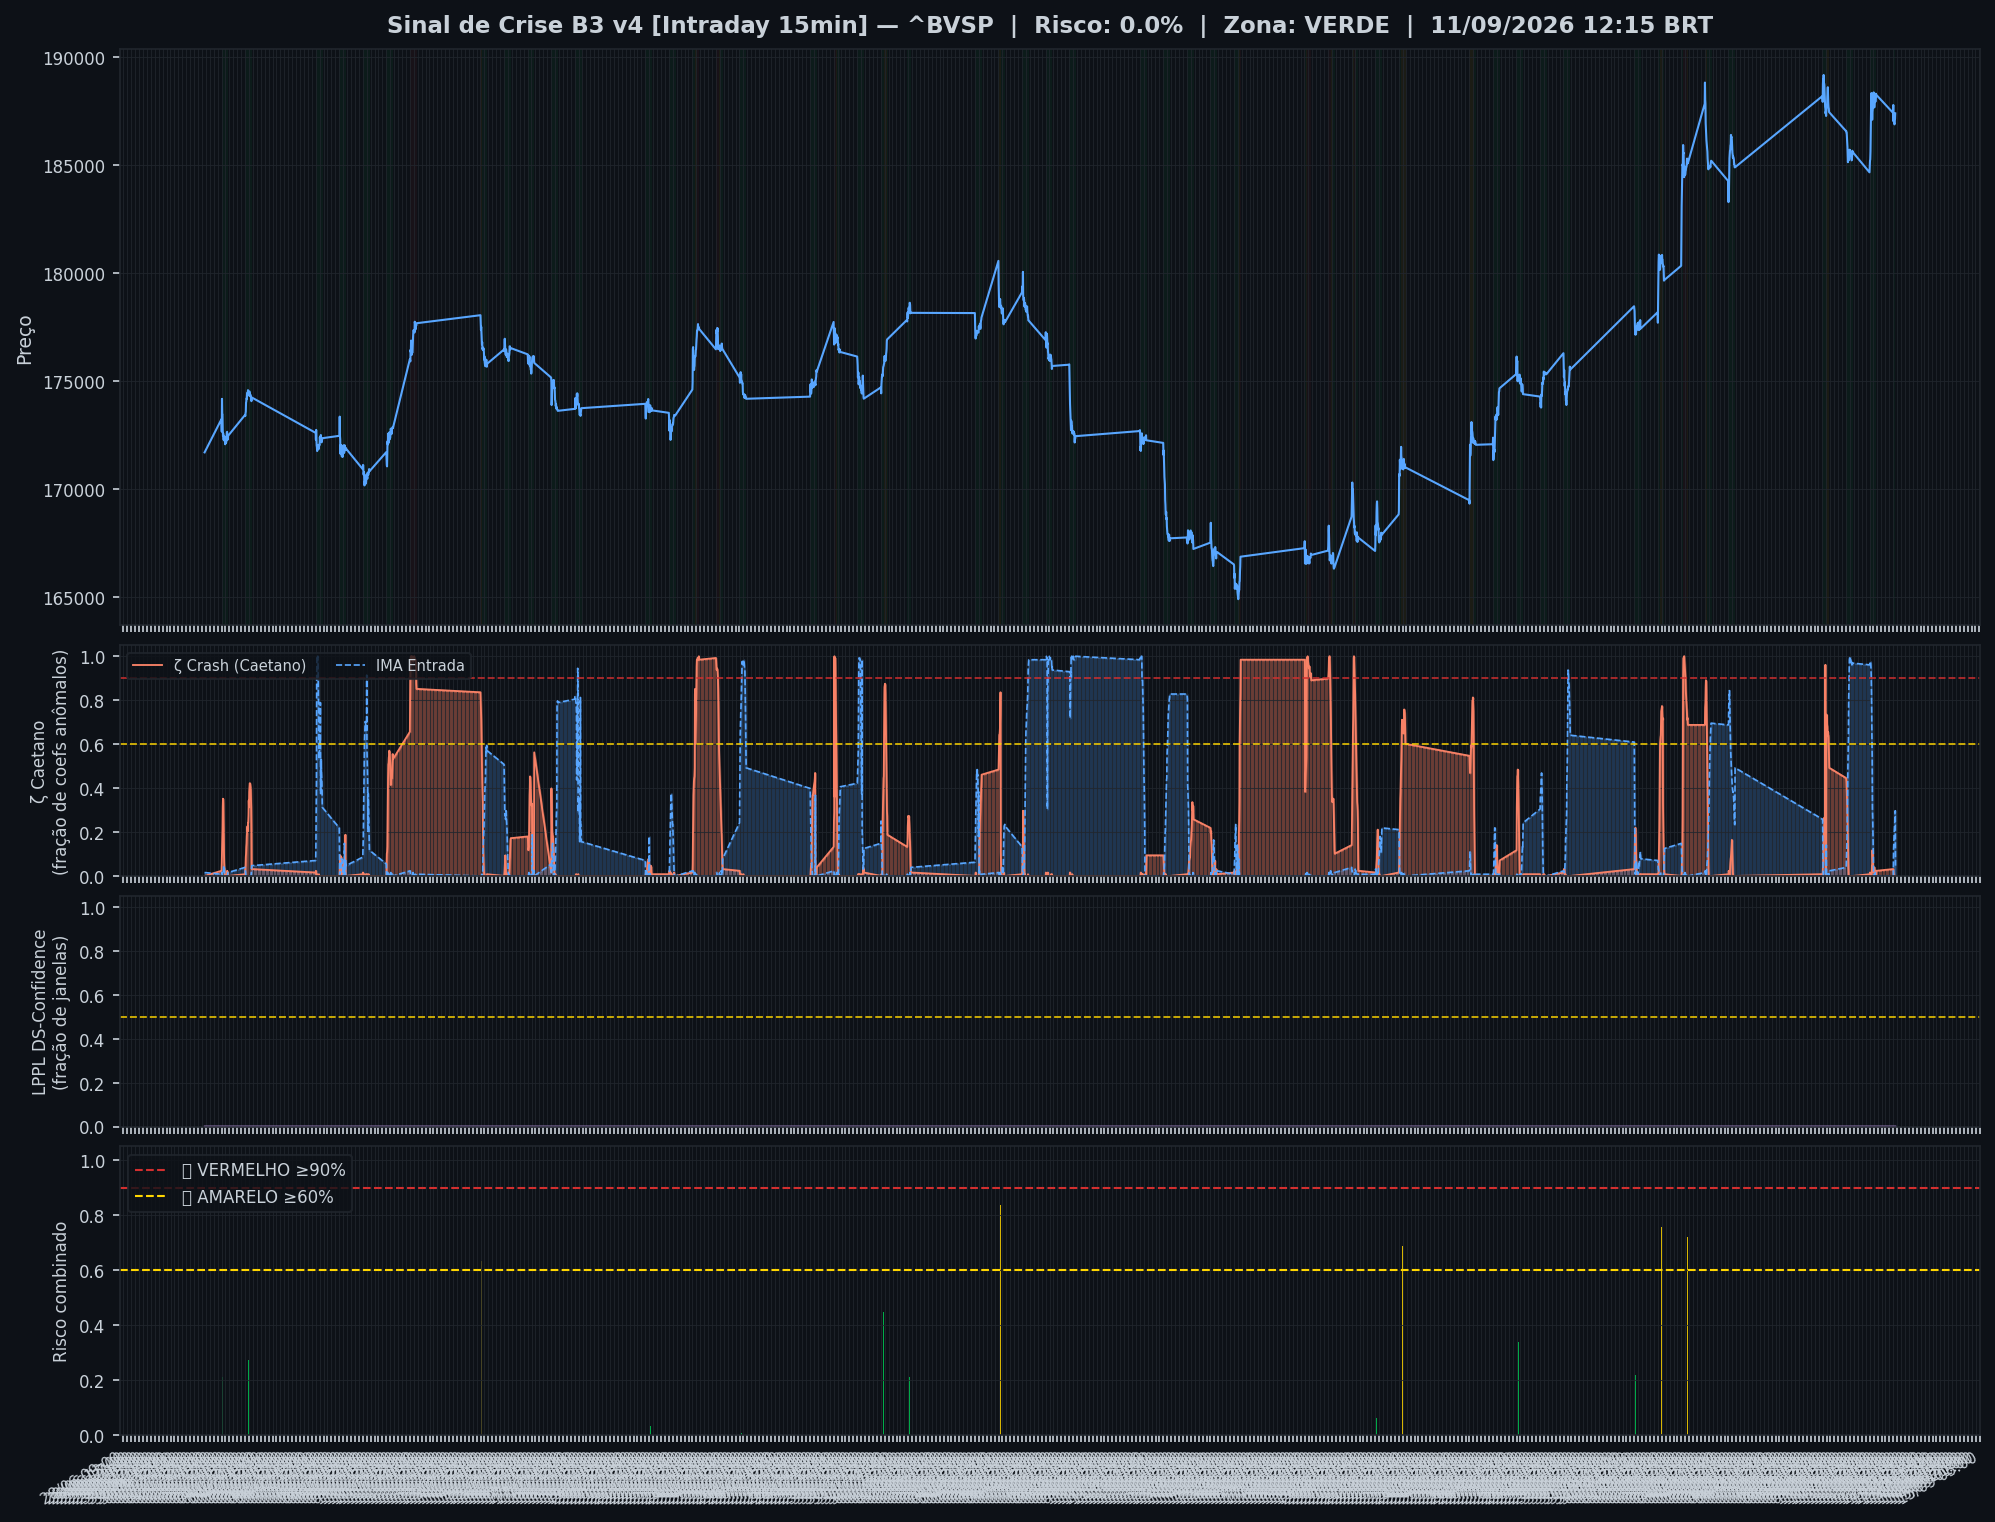
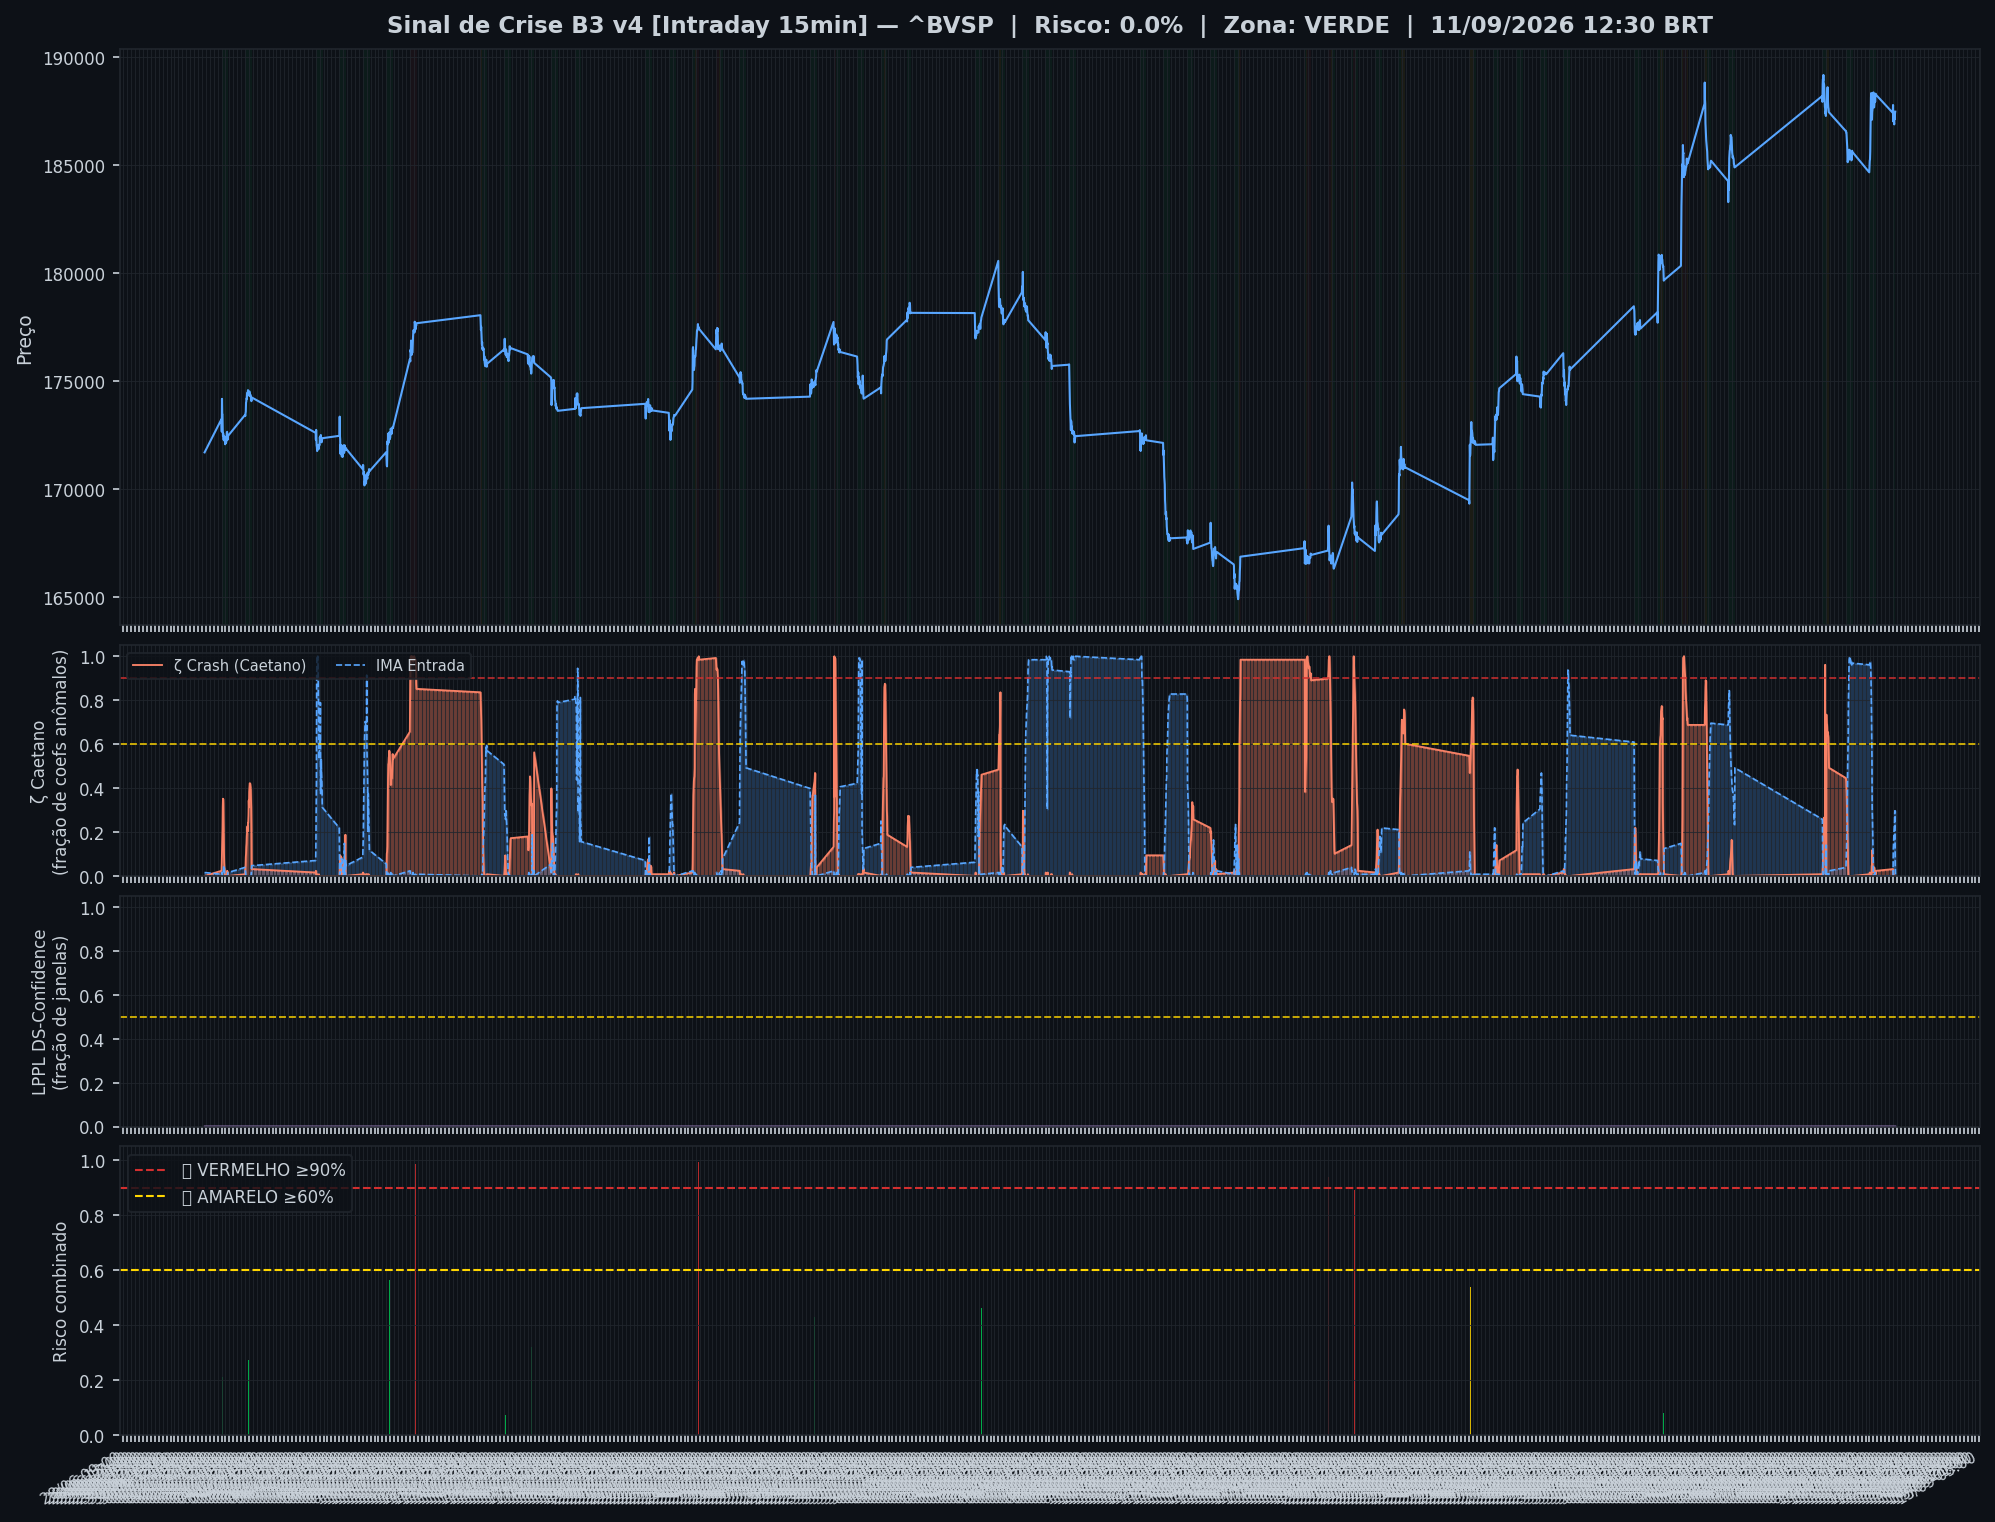
🤖 Auto: Sinal 11/09/2026 13:15

diff --git a/content/intraday/2026-09-11.md b/content/intraday/2026-09-11.md
@@ -1,5 +1,5 @@
 ---
-title: "🟢 Intraday 11/09/2026 12:15 BRT — VERDE"
+title: "🟢 Intraday 11/09/2026 12:30 BRT — VERDE"
 date: 2026-09-11
 tags: [intraday]
 ---
@@ -12,9 +12,9 @@ tags: [intraday]
 | Indicador | Valor |
 |---|---|
 | 🔴 ζ Crash — severidade da queda em curso | **0%** |
-| 🔵 ζ Entrada — estrutura de fundo | 5% |
+| 🔵 ζ Entrada — estrutura de fundo | 1% |
 | 🫧 LPPL DS-Confidence | 0% |
-| 📊 Ibovespa | 187.389 pts |
+| 📊 Ibovespa | 187.473 pts |
 
 ![Gráfico do sinal](../graficos/sinal_intraday.png)
 
@@ -22,6 +22,7 @@ tags: [intraday]
 
 | Data | Zona | Risco | IMA Crash | Entrada | LPPL |
 |---|---|---|---|---|---|
+| 2026-09-11 12:30 | 🟢 VERDE | **0%** | 0% | 1% | 0% |
 | 2026-09-11 12:15 | 🟢 VERDE | **0%** | 0% | 5% | 0% |
 | 2026-09-11 12:00 | 🟢 VERDE | **0%** | 0% | 30% | 0% |
 | 2026-09-11 11:45 | 🟢 VERDE | **0%** | 0% | 29% | 0% |
@@ -51,7 +52,6 @@ tags: [intraday]
 | 2026-09-10 12:45 | 🟢 VERDE | **12%** | 12% | 30% | 0% |
 | 2026-09-10 12:30 | 🟢 VERDE | **5%** | 5% | 55% | 0% |
 | 2026-09-10 12:15 | 🟢 VERDE | **5%** | 5% | 62% | 0% |
-| 2026-09-10 12:00 | 🟢 VERDE | **2%** | 2% | 70% | 0% |
 
 ## Monitor Multi-Ativo
 
@@ -60,34 +60,34 @@ tags: [intraday]
 | Zona | Ativo | Setor | IMA Crash | IMA Entrada |
 |---|---|---|---|---|
 | 🟢 | **VALE** | Mineração | 8.6% | 0.0% |
-| 🟢 | **ITAUUNIBANCO** | Financeiro | 8.6% | 0.0% |
-| 🟢 | **PETROBRAS** | Petróleo | 8.6% | 0.0% |
-| 🟢 | **PETROBRAS** | Petróleo | 8.6% | 0.0% |
-| 🟢 | **AXIA ENERGIA** | Energia | 8.6% | 0.0% |
-| 🟢 | **SABESP** | Saneamento | 8.6% | 0.0% |
-| 🟢 | **BRADESCO** | Financeiro | 8.6% | 0.0% |
-| 🟢 | **B3** | Financeiro | 8.6% | 0.0% |
-| 🟢 | **ITAUSA** | Financeiro | 8.6% | 0.0% |
-| 🟢 | **WEG** | Industrial | 8.6% | 0.0% |
-| 🟢 | **BTGP BANCO** | Financeiro | 8.6% | 0.0% |
-| 🟢 | **EMBRAER** | Outros | 8.6% | 0.0% |
-| 🟢 | **BRASIL** | Financeiro | 8.6% | 0.0% |
-| 🟢 | **AMBEV S/A** | Consumo | 8.6% | 0.0% |
-| 🟢 | **ENEVA** | Energia | 8.6% | 0.0% |
-| 🟢 | **EQUATORIAL** | Energia | 8.6% | 0.0% |
-| 🟢 | **PRIO** | Petróleo | 8.6% | 0.0% |
-| 🟢 | **COPEL** | Energia | 8.6% | 0.0% |
-| 🟢 | **VIBRA** | Energia | 8.6% | 0.0% |
-| 🟢 | **ULTRAPAR** | Outros | 8.6% | 0.0% |
-| 🟢 | **REDE D OR** | Saúde | 8.6% | 0.0% |
-| 🟢 | **LOCALIZA** | Aluguel | 8.6% | 0.0% |
-| 🟢 | **GERDAU** | Siderurgia | 8.6% | 0.0% |
-| 🟢 | **SUZANO S.A.** | Papel/Celulose | 8.6% | 0.0% |
-| 🟢 | **USD/BRL** | Câmbio | 5.5% | 0.0% |
+| 🟢 | **ITAUUNIBANCO** | Financeiro | 5.5% | 0.0% |
+| 🟢 | **PETROBRAS** | Petróleo | 5.5% | 0.0% |
+| 🟢 | **PETROBRAS** | Petróleo | 5.5% | 0.0% |
+| 🟢 | **AXIA ENERGIA** | Energia | 5.5% | 0.0% |
+| 🟢 | **SABESP** | Saneamento | 5.5% | 0.0% |
+| 🟢 | **BRADESCO** | Financeiro | 5.5% | 0.0% |
+| 🟢 | **B3** | Financeiro | 5.5% | 0.0% |
+| 🟢 | **ITAUSA** | Financeiro | 5.5% | 0.0% |
+| 🟢 | **WEG** | Industrial | 5.5% | 0.0% |
+| 🟢 | **BTGP BANCO** | Financeiro | 5.5% | 0.0% |
+| 🟢 | **EMBRAER** | Outros | 5.5% | 0.0% |
+| 🟢 | **BRASIL** | Financeiro | 5.5% | 0.0% |
+| 🟢 | **AMBEV S/A** | Consumo | 5.5% | 0.0% |
+| 🟢 | **ENEVA** | Energia | 5.5% | 0.0% |
+| 🟢 | **EQUATORIAL** | Energia | 5.5% | 0.0% |
+| 🟢 | **PRIO** | Petróleo | 5.5% | 0.0% |
+| 🟢 | **COPEL** | Energia | 5.5% | 0.0% |
+| 🟢 | **VIBRA** | Energia | 5.5% | 0.0% |
+| 🟢 | **ULTRAPAR** | Outros | 5.5% | 0.0% |
+| 🟢 | **REDE D OR** | Saúde | 5.5% | 0.0% |
+| 🟢 | **LOCALIZA** | Aluguel | 5.5% | 0.0% |
+| 🟢 | **GERDAU** | Siderurgia | 5.5% | 0.0% |
+| 🟢 | **SUZANO S.A.** | Papel/Celulose | 5.5% | 0.0% |
+| 🟢 | **USD/BRL** | Câmbio | 3.1% | 0.0% |
 
 ![Monitor multi-ativo](../graficos/multi_intraday.png)
 
-*Página atualizada em 11/09/2026 13:01 BRT (leitura da barra de 2026-09-11 12:15 BRT).*
+*Página atualizada em 11/09/2026 13:15 BRT (leitura da barra de 2026-09-11 12:30 BRT).*
 
 > [!info]- Como interpretar (clique para expandir)
 > - **ζ Crash**: fração dos coeficientes wavelet acima do corte (Caetano & Yoneyama 2009). Escala absoluta: ζ=0,90 = 90% dos coeficientes anômalos — historicamente, quedas com ζ≥0,90 foram mais fundas e mais longas. **Mede a severidade do movimento em curso, não prevê o início da queda.**

diff --git a/content/index.md b/content/index.md
@@ -8,7 +8,7 @@ tags: [home]
 
 Monitoramento diário e intraday do Ibovespa — **IMA Wavelet** (Prof. Marco Antonio Leonel Caetano, ITA/INSPER) + **LPPL DS-Confidence** (Prof. Didier Sornette, ETH-Zurich).
 
-*Última atualização: 11/09/2026 13:01 BRT · ^BVSP · Intraday 15min · v4*
+*Última atualização: 11/09/2026 13:15 BRT · ^BVSP · Intraday 15min · v4*
 
 > [!success] 🟢 **VERDE** — Risco 0% · ＝ +0 p.p. vs leitura anterior
 > `░░░░░░░░░░░░░░░░░░░░`
@@ -18,9 +18,9 @@ Monitoramento diário e intraday do Ibovespa — **IMA Wavelet** (Prof. Marco An
 | Indicador | Valor |
 |---|---|
 | 🔴 ζ Crash — severidade da queda em curso | **0%** |
-| 🔵 ζ Entrada — estrutura de fundo | 5% |
+| 🔵 ζ Entrada — estrutura de fundo | 1% |
 | 🫧 LPPL DS-Confidence | 0% |
-| 📊 Ibovespa | 187.389 pts |
+| 📊 Ibovespa | 187.473 pts |
 
 **Multi-ativo:** 0% em tensão (0🔴 0🟡 de 25 ativos)
 

diff --git a/content/historico.md b/content/historico.md
@@ -7,6 +7,7 @@ tags: [historico]
 
 | Data | Modo | Zona | Risco | IMA | LPPL |
 |---|---|---|---|---|---|
+| 2026-09-11 12:30 | intraday | 🟢 VERDE | 0% | 0% | 0% |
 | 2026-09-11 12:15 | intraday | 🟢 VERDE | 0% | 0% | 0% |
 | 2026-09-11 12:00 | intraday | 🟢 VERDE | 0% | 0% | 0% |
 | 2026-09-11 11:45 | intraday | 🟢 VERDE | 0% | 0% | 0% |
